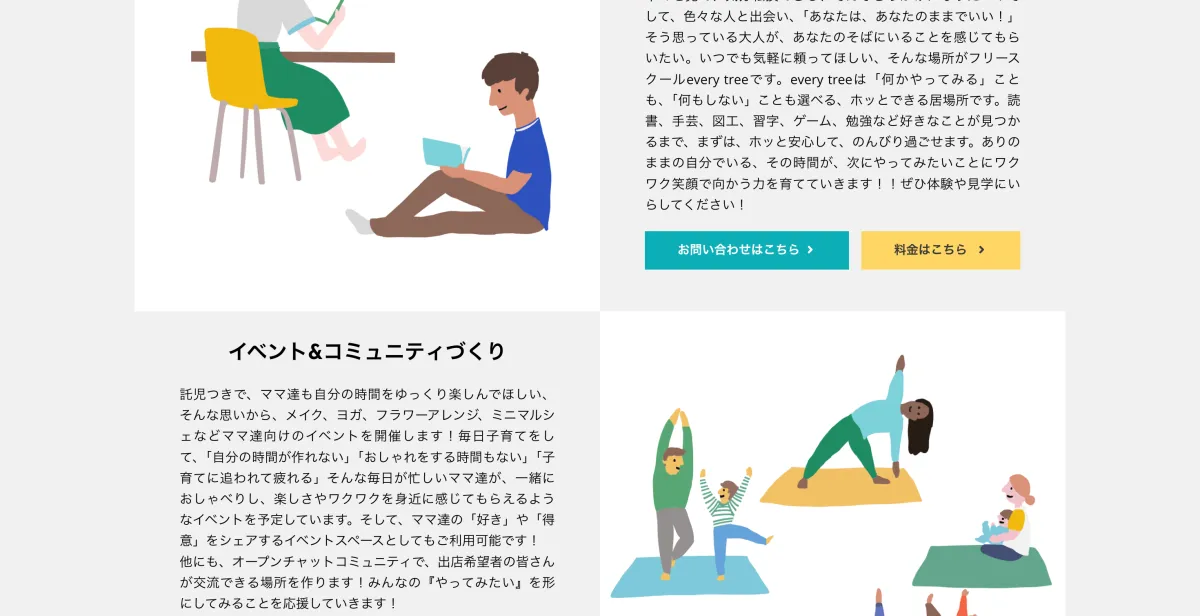
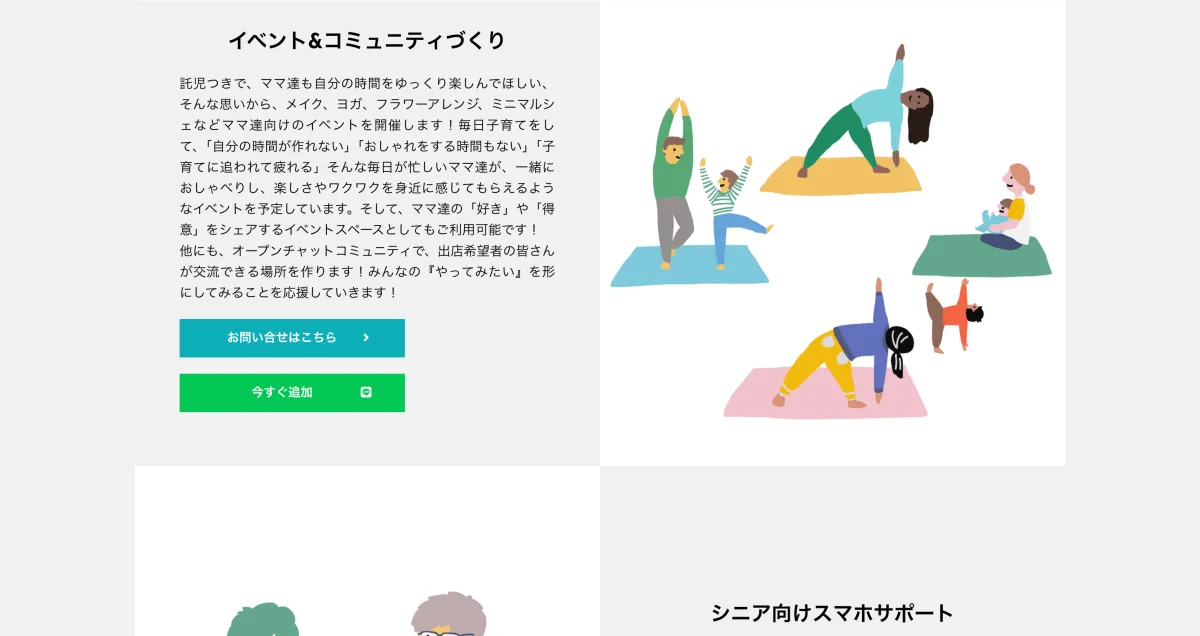
every treeのキャプチャを調整

Changed region(s): [[0.1233, 0.0, 0.4625, 1.0], [0.4933, 0.0, 0.8942, 1.0]]

diff --git a/works/every-tree/index.html b/works/every-tree/index.html
@@ -66,7 +66,7 @@
           <ul class="shot-list">
             <li class="shot">
               <button class="shot__zoom" type="button" data-large="../../images/works/every-tree/pc-hero-large.webp" aria-haspopup="dialog" aria-label="トップページのファーストビュー（PC表示）を拡大表示">
-                <img src="../../images/works/every-tree/pc-hero.webp" alt="トップページのファーストビュー（PC表示）" width="1200" height="616" loading="lazy">
+                <img src="../../images/works/every-tree/pc-hero.webp" alt="トップページのファーストビュー（PC表示）" width="1200" height="864" loading="lazy">
               </button>
               <p class="shot__caption">支給の<wbr>イラストを<wbr>大きく使い、<wbr>木の下に<wbr>人が集まる<wbr>施設の雰囲気が<wbr>そのまま伝わる<wbr>ファーストビューに<wbr>しました。</p>
             </li>
@@ -78,7 +78,7 @@
             </li>
             <li class="shot">
               <button class="shot__zoom" type="button" data-large="../../images/works/every-tree/pc-services-large.webp" data-lightbox="tall" aria-haspopup="dialog" aria-label="サービス紹介（PC表示）を拡大表示">
-                <img src="../../images/works/every-tree/pc-services.webp" alt="サービス紹介（PC表示）" width="1200" height="616" loading="lazy">
+                <img src="../../images/works/every-tree/pc-services.webp" alt="サービス紹介（PC表示）" width="1200" height="636" loading="lazy">
               </button>
               <p class="shot__caption">イラストと<wbr>説明文を<wbr>左右交互に並べ、<wbr>サービスの数が<wbr>多くても<wbr>単調に<wbr>ならないように<wbr>しました。</p>
             </li>
